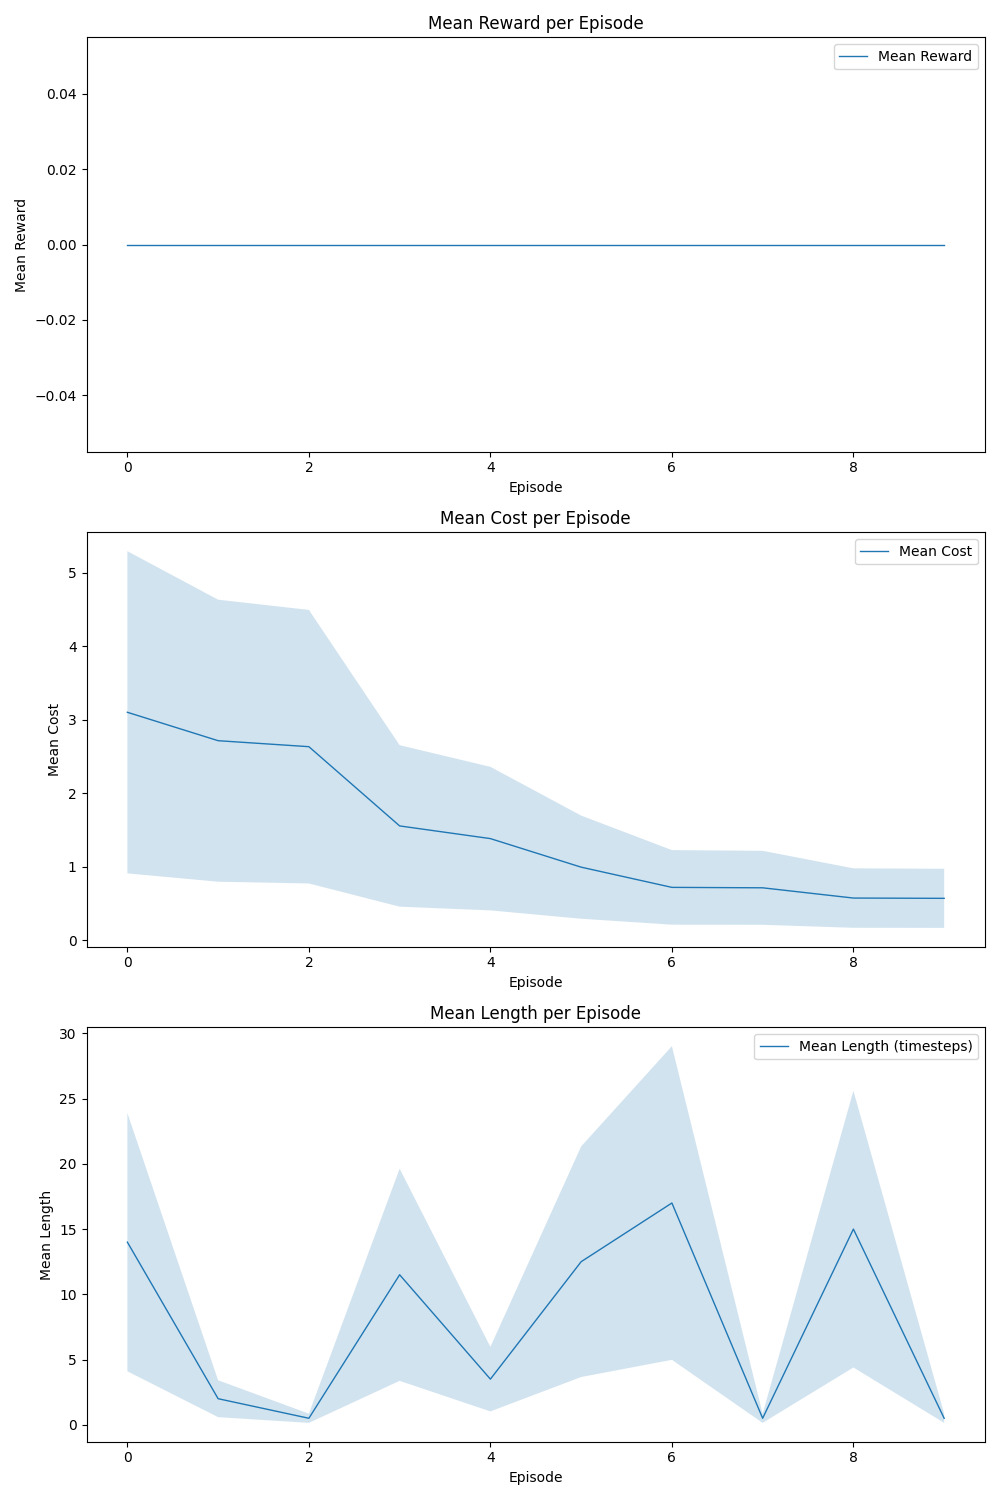
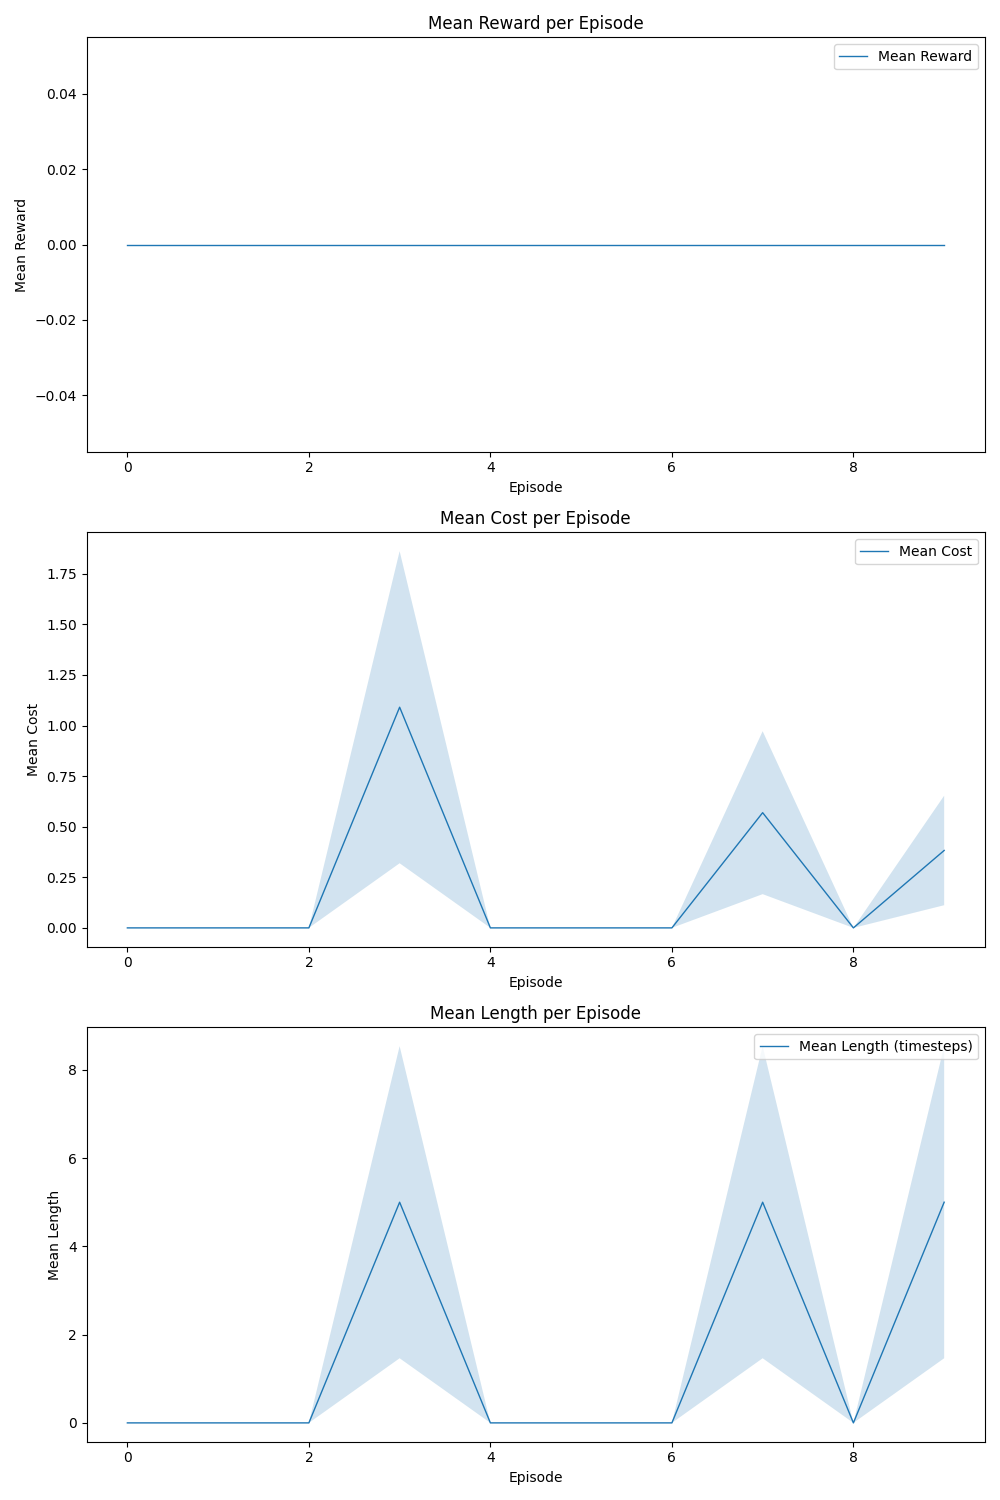
more or less

diff --git a/main.py b/main.py
@@ -1,3 +1,4 @@
+import itertools
 import numpy as np
 
 from matplotlib import pyplot as plt
@@ -8,9 +9,10 @@ from nn import BNN
 from wrappers import make_atari_deepmind
 
 # Defining all the required parameters
-n_experiments = 2
-total_episodes = 10 #5000
-max_steps = 10000
+n_experiments = 1
+total_episodes = 50000 #5000
+max_steps = 1000
+n_environment_interactions = 100
 # 0.1 - 0.01 - 0.001
 alpha = 0.1
 # 0.9 - 0.95 - 0.99
@@ -29,36 +31,37 @@ for ex in range(n_experiments):
     agent = Agent(network, alpha, gamma, lr)
 
     cost = []
-    ep_infos = []
+    ep_infos = []  
+    ep_count = 0
 
     total_reward_matrix = np.zeros((n_experiments, total_episodes))
     total_cost_matrix = np.zeros((n_experiments, total_episodes))
     total_lenght_matrix = np.zeros((n_experiments, total_episodes))
 
-    for episode_count in range(total_episodes):
-        # Collect data
+    while ep_count < total_episodes:
+        states1, _ = env.reset()
+        actions1 = [1, 1, 1, 1]
+        ep_done = False
         data = []
-        states1, _ = env.reset() 
-        actions1 = [1,1,1,1]
-        t = 1
-        while t < max_steps:
 
+        while not ep_done:
+            # Collect data    
             states2, rewards, dones, _, infos = env.step(actions1)  
             actions2 = agent.choose_action(states2)
             for state, action, reward, done, state2, action2, info in zip(states1, actions1, rewards, dones, states2, actions2, infos):       
                 data.append((state, action, reward, state2, action2))
                 
                 if done:
-                    print('-------done')
+                    print('-------done', ep_count)
                     ep_infos.append(info['episode'])
-                    t = max_steps
-                    break
+                    ep_done = done
+                    if ep_count >= total_episodes:
+                        break
+                    ep_count += 1
 
             states1 = states2 
-            actions1 = actions2  
-
-            t+=1          
-                
+            actions1 = actions2          
+                    
         # Train
         # Loop through data with a step size of 4
         for r in range(0, len(data), 4):
@@ -70,21 +73,18 @@ for ex in range(n_experiments):
             c = agent.update(states, actions, rewards, next_states, next_actions)
             cost.append(c.cpu().detach().numpy())
 
-        if len(ep_infos) == 0:
-            rew_mean = 0
-            lenght_mean = 0
-        else: 
-            rew_mean = np.mean([e['r'] for e in ep_infos])
-            print([e['r'] for e in ep_infos])
-            lenght_mean = np.mean([e['l'] for e in ep_infos])
-    
-        total_reward_matrix[ex, episode_count] = ep_infos[-1]['r']
-        total_cost_matrix[ex,episode_count] = np.mean(cost)
-        total_lenght_matrix[ex,episode_count] = ep_infos[-1]['l']
+        
+        rew_mean = np.mean([e['r'] for e in ep_infos])
+        print([e['r'] for e in ep_infos])
+        lenght_mean = np.mean([e['l'] for e in ep_infos])
+
+        total_reward_matrix[ex, ep_count-1] = ep_infos[-1]['r']
+        total_cost_matrix[ex,ep_count-1] = np.mean(cost)
+        total_lenght_matrix[ex,ep_count-1] = ep_infos[-1]['l']
 
         print()
         print('Experiment: ', ex+1, '/', n_experiments)
-        print('Episode: ', episode_count, 'with steps: ', ep_infos[-1]['l']) 
+        print('Episode: ', ep_count, 'with steps: ', ep_infos[-1]['l']) 
         print('Reward mean total: ', rew_mean)   
 
 env.close()
